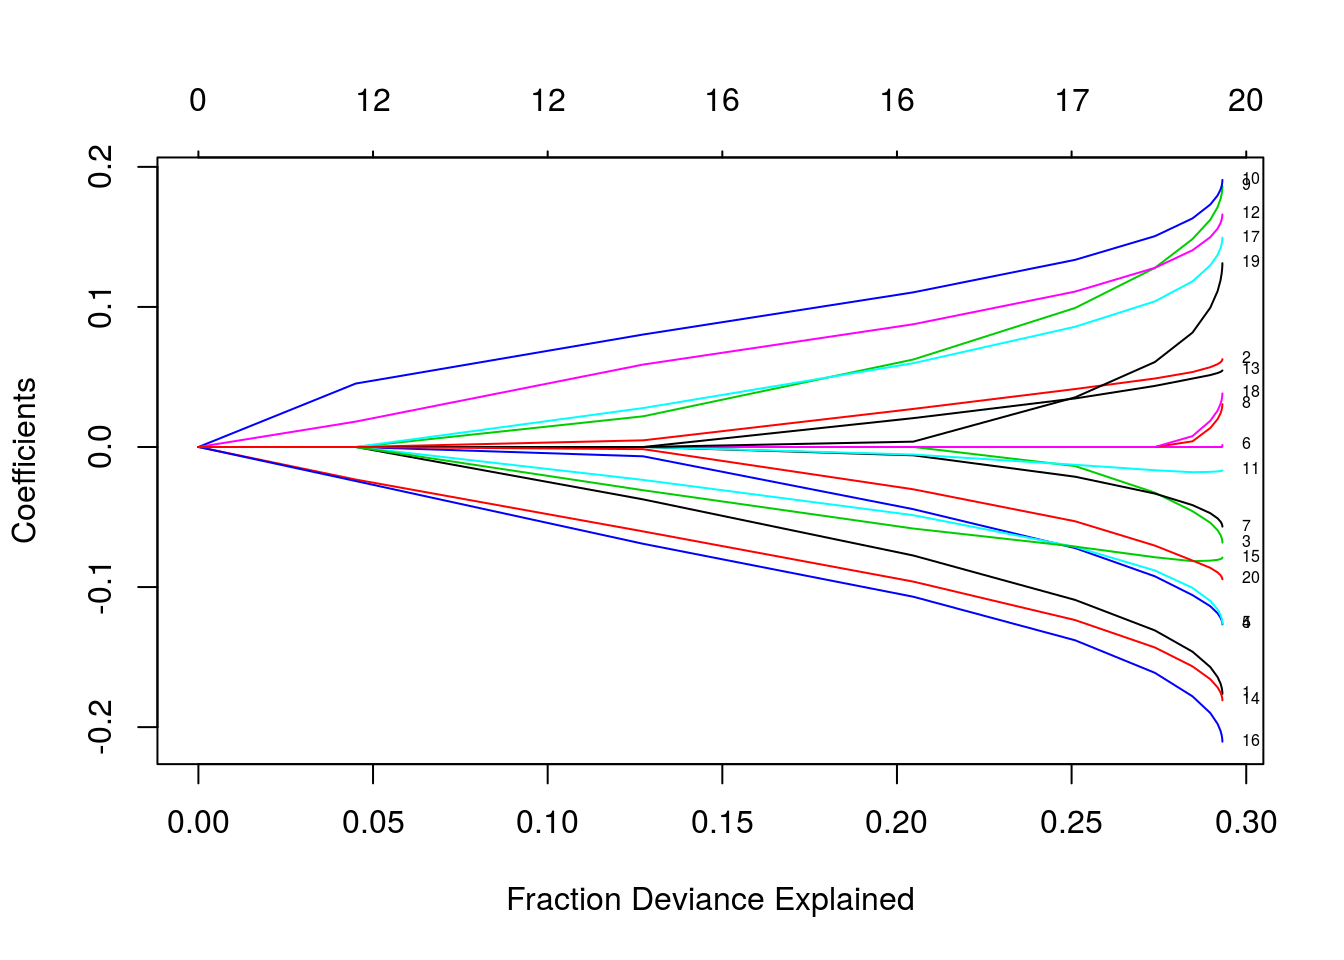
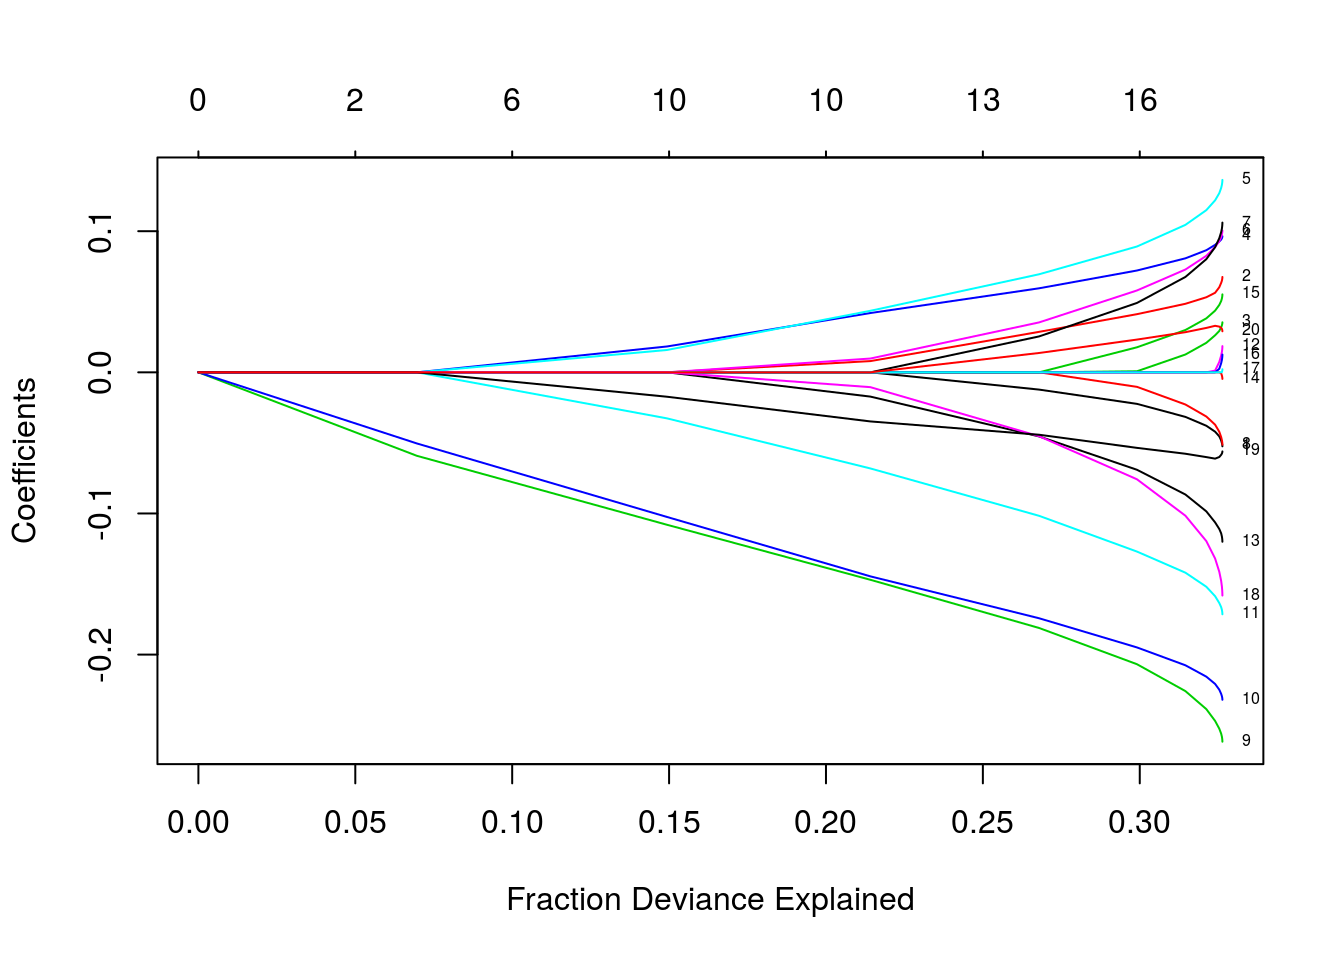
link to rmd gallery

diff --git a/rmds/_site/glmnet_linear.html b/rmds/_site/glmnet_linear.html
@@ -285,16 +285,7 @@ $(document).ready(function () {
   <a href="index.html">Home</a>
 </li>
 <li>
-  <a href="https://hohoweiya.xyz">About</a>
-</li>
-<li>
   <a href="https://esl.hohoweiya.xyz">ESL CN</a>
-</li>
-<li>
-  <a href="https://stats.hohoweiya.xyz">Work Yard</a>
-</li>
-<li>
-  <a href="https://tech.hohoweiya.xyz">Tech Note</a>
 </li>
       </ul>
       <ul class="nav navbar-nav navbar-right">
@@ -317,11 +308,8 @@ $(document).ready(function () {
 
 <div id="fit" class="section level2">
 <h2>fit</h2>
-<pre class="r"><code>library(glmnet)</code></pre>
-<pre><code>## Loading required package: Matrix</code></pre>
-<pre><code>## Loading required package: foreach</code></pre>
-<pre><code>## Loaded glmnet 2.0-16</code></pre>
-<pre class="r"><code>x = matrix(rnorm(100*20), 100, 20)
+<pre class="r"><code>library(glmnet)
+x = matrix(rnorm(100*20), 100, 20)
 y = rnorm(100)
 
 fit = glmnet(x, y, alpha = 0.2, weights = c(rep(1,50),rep(2,50)), nlambda = 20)
@@ -330,22 +318,23 @@ print(fit)</code></pre>
 ## Call:  glmnet(x = x, y = y, weights = c(rep(1, 50), rep(2, 50)), alpha = 0.2,      nlambda = 20) 
 ## 
 ##       Df    %Dev    Lambda
-##  [1,]  0 0.00000 1.0430000
-##  [2,]  4 0.04503 0.6424000
-##  [3,] 12 0.12730 0.3956000
-##  [4,] 16 0.20470 0.2436000
-##  [5,] 17 0.25100 0.1501000
-##  [6,] 17 0.27380 0.0924100
-##  [7,] 19 0.28460 0.0569100
-##  [8,] 19 0.28970 0.0350500
-##  [9,] 19 0.29180 0.0215800
-## [10,] 19 0.29260 0.0132900
-## [11,] 19 0.29300 0.0081860
-## [12,] 20 0.29310 0.0050410
-## [13,] 20 0.29310 0.0031050
-## [14,] 20 0.29320 0.0019120
-## [15,] 20 0.29320 0.0011780
-## [16,] 20 0.29320 0.0007252</code></pre>
+##  [1,]  0 0.00000 1.3760000
+##  [2,]  2 0.06964 0.8472000
+##  [3,]  6 0.14930 0.5217000
+##  [4,] 10 0.21410 0.3213000
+##  [5,] 13 0.26790 0.1979000
+##  [6,] 16 0.29910 0.1219000
+##  [7,] 16 0.31450 0.0750500
+##  [8,] 16 0.32120 0.0462200
+##  [9,] 17 0.32400 0.0284600
+## [10,] 18 0.32530 0.0175300
+## [11,] 19 0.32590 0.0108000
+## [12,] 20 0.32620 0.0066480
+## [13,] 20 0.32630 0.0040940
+## [14,] 20 0.32630 0.0025210
+## [15,] 20 0.32630 0.0015530
+## [16,] 20 0.32630 0.0009563
+## [17,] 20 0.32630 0.0005889</code></pre>
 </div>
 <div id="plot" class="section level2">
 <h2>plot</h2>
@@ -374,28 +363,28 @@ coef.exact = coef(x=x, y=y,  weights = c(rep(1,50),rep(2,50)), fit, s = 0.5, exa
 coef.apprx = coef(fit, s = 0.5, exact = FALSE)
 cbind2(coef.exact, coef.apprx)</code></pre>
 <pre><code>## 21 x 2 sparse Matrix of class &quot;dgCMatrix&quot;
-##                        1             1
-## (Intercept)  0.046212189  0.0470316352
-## V1          -0.012161377 -0.0215899041
-## V2           .            0.0027446774
-## V3           .            .           
-## V4           .           -0.0038383005
-## V5          -0.009373481 -0.0135640946
-## V6           .            .           
-## V7           .            .           
-## V8           .            .           
-## V9           0.001235477  0.0126457250
-## V10          0.062959043  0.0655027870
-## V11          .            .           
-## V12          0.039345557  0.0416415226
-## V13          .            .           
-## V14         -0.042778838 -0.0446068675
-## V15         -0.014433114 -0.0178172920
-## V16         -0.048409442 -0.0501720210
-## V17          0.011849625  0.0160494813
-## V18          .            .           
-## V19          .            .           
-## V20          .           -0.0008912026</code></pre>
+##                       1             1
+## (Intercept) -0.09558839 -0.0962268209
+## V1           .           .           
+## V2           .           0.0008620452
+## V3           .           .           
+## V4           0.02064205  0.0208827476
+## V5           0.01829474  0.0188439820
+## V6           .           0.0010590269
+## V7           .           .           
+## V8           .           .           
+## V9          -0.11159124 -0.1122539451
+## V10         -0.10672665 -0.1070586065
+## V11         -0.03583638 -0.0364817443
+## V12          .           .           
+## V13          .          -0.0018652429
+## V14          .           .           
+## V15          .           .           
+## V16          .           .           
+## V17          .           .           
+## V18          .          -0.0011403887
+## V19         -0.01912082 -0.0191996255
+## V20          .           .</code></pre>
 </div>
 <div id="predictions" class="section level2">
 <h2>predictions</h2>
@@ -406,11 +395,11 @@ cbind2(coef.exact, coef.apprx)</code></pre>
 </ul>
 <pre class="r"><code>predict(fit, newx = x[1:5, ], type = &quot;response&quot;, s = 0.05)</code></pre>
 <pre><code>##               1
-## [1,] -0.4628719
-## [2,]  0.5305368
-## [3,] -0.1575243
-## [4,] -0.2153972
-## [5,] -0.2219223</code></pre>
+## [1,]  0.4287051
+## [2,] -0.5522176
+## [3,] -0.3379823
+## [4,] -0.9540268
+## [5,]  0.1122584</code></pre>
 </div>
 <div id="cross-validation" class="section level2">
 <h2>cross-validation</h2>
@@ -422,39 +411,36 @@ cbind2(coef.exact, coef.apprx)</code></pre>
 </div>
 <div id="parallel" class="section level2">
 <h2>parallel</h2>
-<pre class="r"><code>require(doMC)</code></pre>
-<pre><code>## Loading required package: doMC</code></pre>
-<pre><code>## Loading required package: iterators</code></pre>
-<pre><code>## Loading required package: parallel</code></pre>
-<pre class="r"><code>registerDoMC(cores = 4)
+<pre class="r"><code>require(doMC)
+registerDoMC(cores = 4)
 X = matrix(rnorm(1e4 * 200), 1e4, 200)
 Y = rnorm(1e4)
 system.time(cv.glmnet(X, Y))</code></pre>
 <pre><code>##    user  system elapsed 
-##   3.728   0.000   3.726</code></pre>
+##   3.376   0.000   3.380</code></pre>
 <pre class="r"><code>system.time(cv.glmnet(X, Y, parallel = TRUE))</code></pre>
 <pre><code>##    user  system elapsed 
-##   3.744   0.116   1.552</code></pre>
+##   3.792   0.120   1.563</code></pre>
 </div>
 <div id="coef-and-predict-for-cv.glmnet" class="section level2">
 <h2>coef and predict for cv.glmnet</h2>
 <pre class="r"><code>cvfit$lambda.min</code></pre>
-<pre><code>## [1] 0.1913295</code></pre>
+<pre><code>## [1] 0.1070167</code></pre>
 <pre class="r"><code>coef(cvfit, s = &quot;lambda.min&quot;)</code></pre>
 <pre><code>## 21 x 1 sparse Matrix of class &quot;dgCMatrix&quot;
 ##                       1
-## (Intercept) -0.02758749
+## (Intercept) -0.09456403
 ## V1           .         
 ## V2           .         
 ## V3           .         
-## V4           .         
+## V4           0.01136755
 ## V5           .         
 ## V6           .         
 ## V7           .         
 ## V8           .         
-## V9           .         
-## V10          .         
-## V11          .         
+## V9          -0.13276151
+## V10         -0.10992192
+## V11         -0.11022062
 ## V12          .         
 ## V13          .         
 ## V14          .         
@@ -462,15 +448,15 @@ system.time(cv.glmnet(X, Y))</code></pre>
 ## V16          .         
 ## V17          .         
 ## V18          .         
-## V19          .         
+## V19         -0.01983920
 ## V20          .</code></pre>
 <pre class="r"><code>predict(cvfit, newx = x[1:5, ], s = &quot;lambda.min&quot;)</code></pre>
 <pre><code>##                1
-## [1,] -0.02758749
-## [2,] -0.02758749
-## [3,] -0.02758749
-## [4,] -0.02758749
-## [5,] -0.02758749</code></pre>
+## [1,]  0.23279558
+## [2,] -0.40358392
+## [3,] -0.08862785
+## [4,] -0.48245766
+## [5,] -0.09485886</code></pre>
 </div>
 <div id="control-the-folds" class="section level2">
 <h2>control the folds</h2>
@@ -575,14 +561,17 @@ plot(cvmfit)</code></pre>
 ## [8] base     
 ## 
 ## other attached packages:
-## [1] doMC_1.3.5       iterators_1.0.10 glmnet_2.0-16    foreach_1.4.4   
-## [5] Matrix_1.2-15   
+##  [1] gbm_2.1.5           randomForest_4.6-14 MASS_7.3-51.1      
+##  [4] ISLR_1.2            tree_1.0-39         doMC_1.3.5         
+##  [7] iterators_1.0.10    glmnet_2.0-16       foreach_1.4.4      
+## [10] Matrix_1.2-15      
 ## 
 ## loaded via a namespace (and not attached):
-##  [1] Rcpp_1.0.0       codetools_0.2-16 lattice_0.20-38  digest_0.6.18   
-##  [5] grid_3.5.2       magrittr_1.5     evaluate_0.12    stringi_1.2.4   
-##  [9] rmarkdown_1.11   tools_3.5.2      stringr_1.3.1    xfun_0.4        
-## [13] yaml_2.2.0       compiler_3.5.2   htmltools_0.3.6  knitr_1.21</code></pre>
+##  [1] Rcpp_1.0.0       knitr_1.21       magrittr_1.5     splines_3.5.2   
+##  [5] lattice_0.20-38  stringr_1.3.1    tools_3.5.2      grid_3.5.2      
+##  [9] gtable_0.2.0     xfun_0.4         htmltools_0.3.6  survival_2.43-3 
+## [13] yaml_2.2.0       digest_0.6.18    gridExtra_2.3    codetools_0.2-16
+## [17] evaluate_0.12    rmarkdown_1.11   stringi_1.2.4    compiler_3.5.2</code></pre>
 </div>
 </div>
 

diff --git a/rmds/_site/tree-based-methods.html b/rmds/_site/tree-based-methods.html
@@ -285,16 +285,7 @@ $(document).ready(function () {
   <a href="index.html">Home</a>
 </li>
 <li>
-  <a href="https://hohoweiya.xyz">About</a>
-</li>
-<li>
   <a href="https://esl.hohoweiya.xyz">ESL CN</a>
-</li>
-<li>
-  <a href="https://stats.hohoweiya.xyz">Work Yard</a>
-</li>
-<li>
-  <a href="https://tech.hohoweiya.xyz">Tech Note</a>
 </li>
       </ul>
       <ul class="nav navbar-nav navbar-right">
@@ -411,30 +402,17 @@ attach(Carseats)</code></pre>
 ##     High</code></pre>
 <pre><code>## The following objects are masked from Carseats (pos = 4):
 ## 
-##     Advertising, Age, CompPrice, Education, High, Income,
+##     Advertising, Age, CompPrice, Education, High, High.1, Income,
 ##     Population, Price, Sales, ShelveLoc, Urban, US</code></pre>
 <pre><code>## The following objects are masked from Carseats (pos = 6):
+## 
+##     Advertising, Age, CompPrice, Education, High, Income,
+##     Population, Price, Sales, ShelveLoc, Urban, US</code></pre>
+<pre><code>## The following objects are masked from Carseats (pos = 8):
 ## 
 ##     Advertising, Age, CompPrice, Education, Income, Population,
 ##     Price, Sales, ShelveLoc, Urban, US</code></pre>
 <pre class="r"><code>head(Carseats)</code></pre>
-<pre><code>##   Sales CompPrice Income Advertising Population Price ShelveLoc Age
-## 1  9.50       138     73          11        276   120       Bad  42
-## 2 11.22       111     48          16        260    83      Good  65
-## 3 10.06       113     35          10        269    80    Medium  59
-## 4  7.40       117    100           4        466    97    Medium  55
-## 5  4.15       141     64           3        340   128       Bad  38
-## 6 10.81       124    113          13        501    72       Bad  78
-##   Education Urban  US High High.1
-## 1        17   Yes Yes  Yes    Yes
-## 2        10   Yes Yes  Yes    Yes
-## 3        12   Yes Yes  Yes    Yes
-## 4        14   Yes Yes   No     No
-## 5        13   Yes  No   No     No
-## 6        16    No Yes  Yes    Yes</code></pre>
-<pre class="r"><code>High = ifelse(Sales &lt;= 8, &quot;No&quot;, &quot;Yes&quot;)
-Carseats = data.frame(Carseats, High)
-head(Carseats)</code></pre>
 <pre><code>##   Sales CompPrice Income Advertising Population Price ShelveLoc Age
 ## 1  9.50       138     73          11        276   120       Bad  42
 ## 2 11.22       111     48          16        260    83      Good  65
@@ -449,6 +427,23 @@ head(Carseats)</code></pre>
 ## 4        14   Yes Yes   No     No     No
 ## 5        13   Yes  No   No     No     No
 ## 6        16    No Yes  Yes    Yes    Yes</code></pre>
+<pre class="r"><code>High = ifelse(Sales &lt;= 8, &quot;No&quot;, &quot;Yes&quot;)
+Carseats = data.frame(Carseats, High)
+head(Carseats)</code></pre>
+<pre><code>##   Sales CompPrice Income Advertising Population Price ShelveLoc Age
+## 1  9.50       138     73          11        276   120       Bad  42
+## 2 11.22       111     48          16        260    83      Good  65
+## 3 10.06       113     35          10        269    80    Medium  59
+## 4  7.40       117    100           4        466    97    Medium  55
+## 5  4.15       141     64           3        340   128       Bad  38
+## 6 10.81       124    113          13        501    72       Bad  78
+##   Education Urban  US High High.1 High.2 High.3
+## 1        17   Yes Yes  Yes    Yes    Yes    Yes
+## 2        10   Yes Yes  Yes    Yes    Yes    Yes
+## 3        12   Yes Yes  Yes    Yes    Yes    Yes
+## 4        14   Yes Yes   No     No     No     No
+## 5        13   Yes  No   No     No     No     No
+## 6        16    No Yes  Yes    Yes    Yes    Yes</code></pre>
 <pre class="r"><code>tree.carseats = tree(High~.-Sales, Carseats)
 summary(tree.carseats)</code></pre>
 <pre><code>## 
@@ -629,9 +624,8 @@ mean((yhat.rf-boston.test)^2)</code></pre>
 </div>
 <div id="boosting-1" class="section level3">
 <h3>Boosting</h3>
-<pre class="r"><code>library(gbm)</code></pre>
-<pre><code>## Loaded gbm 2.1.5</code></pre>
-<pre class="r"><code>set.seed(1)
+<pre class="r"><code>library(gbm)
+set.seed(1)
 boost.boston = gbm(medv~., data = Boston[train, ], distribution = &quot;gaussian&quot;, n.trees = 5000, interaction.depth = 4)
 summary(boost.boston)</code></pre>
 <p><img src="tree-based-methods_files/figure-html/unnamed-chunk-9-1.png" width="672" /></p>

diff --git a/rmds/_site/glmnet.html b/rmds/_site/glmnet.html
@@ -286,16 +286,7 @@ $(document).ready(function () {
   <a href="index.html">Home</a>
 </li>
 <li>
-  <a href="https://hohoweiya.xyz">About</a>
-</li>
-<li>
   <a href="https://esl.hohoweiya.xyz">ESL CN</a>
-</li>
-<li>
-  <a href="https://stats.hohoweiya.xyz">Work Yard</a>
-</li>
-<li>
-  <a href="https://tech.hohoweiya.xyz">Tech Note</a>
 </li>
       </ul>
       <ul class="nav navbar-nav navbar-right">

diff --git a/rmds/_site/index.html b/rmds/_site/index.html
@@ -284,16 +284,7 @@ $(document).ready(function () {
   <a href="index.html">Home</a>
 </li>
 <li>
-  <a href="https://hohoweiya.xyz">About</a>
-</li>
-<li>
   <a href="https://esl.hohoweiya.xyz">ESL CN</a>
-</li>
-<li>
-  <a href="https://stats.hohoweiya.xyz">Work Yard</a>
-</li>
-<li>
-  <a href="https://tech.hohoweiya.xyz">Tech Note</a>
 </li>
       </ul>
       <ul class="nav navbar-nav navbar-right">

diff --git a/docs/notes/ipynb/list.md b/docs/notes/ipynb/list.md
@@ -1,15 +1,25 @@
-# Ipython Notebook列表
+# 笔记列表
 
 | 作者   | szcf-weiya                               |
 | ---- | ---------------------------------------- |
-| 时间   | 2018-03-03                               |
+| 更新   | 2019-02-27 17:12:50                               |
+
+## Rmarkdown 列表
+
+详见子网站 [Rmd Gallery](https://esl.hohoweiya.xyz/rmds/).
+
+[![](rmd-gallery.png)](https://esl.hohoweiya.xyz/rmds/)
+
+
+## Ipython Notebook 列表
 
 为了方便浏览，用`nbviewer`展示Ipython Notebook，下面列出具体的链接（点击图片即可访问）
 
-## [Notebook for Simple Neural Network](http://nbviewer.jupyter.org/github/szcf-weiya/TFnotes/blob/master/nn/nn.ipynb)
+### [Notebook for Simple Neural Network](http://nbviewer.jupyter.org/github/szcf-weiya/TFnotes/blob/master/nn/nn.ipynb)
 
 [![](screenshot1.png)](http://nbviewer.jupyter.org/github/szcf-weiya/TFnotes/blob/master/nn/nn.ipynb)
 
-## [Notebook for Section 11.6](http://nbviewer.jupyter.org/github/szcf-weiya/ESL-CN/blob/master/code/nn/Implementation-for-Section-6.ipynb)
+### [Notebook for Section 11.6](http://nbviewer.jupyter.org/github/szcf-weiya/ESL-CN/blob/master/code/nn/Implementation-for-Section-6.ipynb)
 
 [![](screenshot2.png)](http://nbviewer.jupyter.org/github/szcf-weiya/ESL-CN/blob/master/code/nn/Implementation-for-Section-6.ipynb)
+
